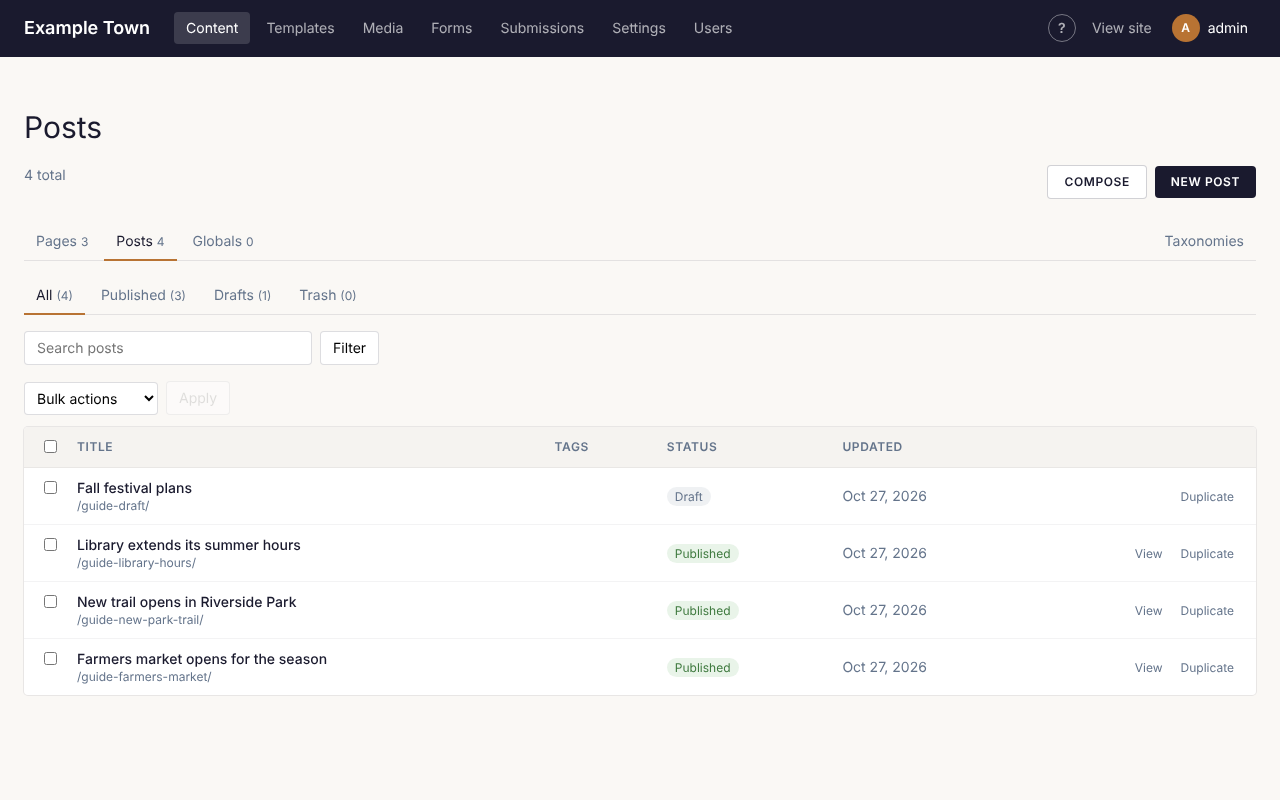
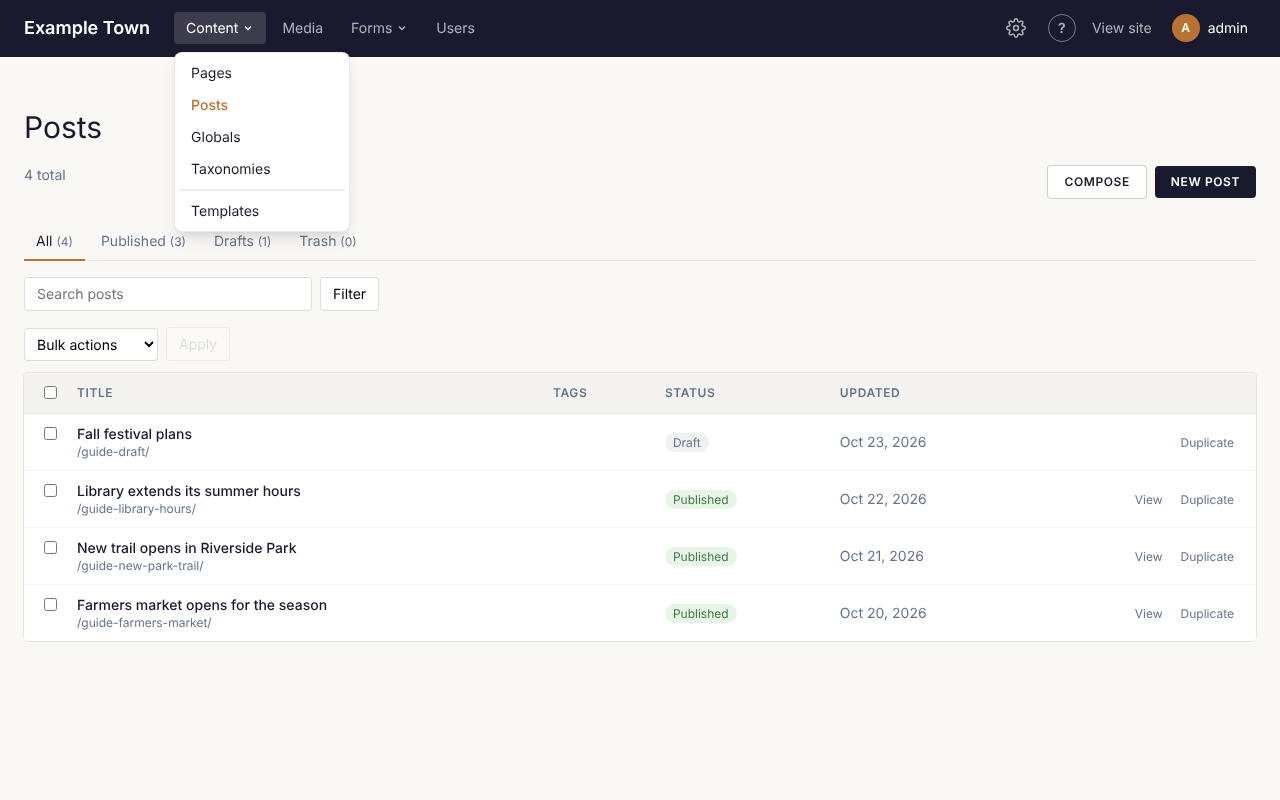
Admin bar: content types, Taxonomies and Templates under a Content dropdown
The content list's type tabs move into the bar's Content menu, with
Taxonomies after them and Templates in a section of its own under a rule.
The list counts only the type shown.

Claude-Session: https://claude.ai/code/session_01BBav2VRnCnaYiKq5puBKN7

diff --git a/src/lib/admin/nav.ts b/src/lib/admin/nav.ts
@@ -1,20 +1,30 @@
-// The admin bar's menu (src/layouts/Admin.astro): a few links and two dropdowns, so features turned on
-// don't make it longer. Settings is the gear beside it, for admins.
+// The admin bar's menu (src/layouts/Admin.astro): a few links and dropdowns, so content types and
+// features turned on don't make it longer. Settings is the gear beside it, for admins.
 
 export interface NavLink {
   href: string;
   label: string;
+  /** Starts a section of its own in a dropdown, under a rule. */
+  section?: boolean;
 }
 export interface NavGroup {
   label: string;
   items: NavLink[];
+  /** Other screens that belong to the group (an entry's editor, Compose). */
+  also?: string[];
 }
 export type NavItem = NavLink | NavGroup;
 
 export const isGroup = (n: NavItem): n is NavGroup => 'items' in n;
 
-/** What the bar offers this person: optional features only while they are on, admin screens to admins. */
-export function adminNav(o: { isAdmin: boolean; ticketsOn: boolean; mailOn: boolean; membersOn: boolean }): NavItem[] {
+/** The content list's address for a type, or Taxonomies (`terms`). */
+export const contentHref = (type: string) => `/admin/?type=${type}`;
+
+/**
+ * What the bar offers this person: Content's types (those shown, `types`), Taxonomies and, in a section
+ * of its own, Templates; optional features only while they are on; admin screens to admins.
+ */
+export function adminNav(o: { isAdmin: boolean; ticketsOn: boolean; mailOn: boolean; membersOn: boolean; types: { type: string; label: string }[] }): NavItem[] {
   const people: NavLink[] = [
     ...(o.isAdmin ? [{ href: '/admin/users/', label: 'Users' }] : []),
     ...(o.isAdmin && o.membersOn ? [{ href: '/admin/members/', label: 'Members' }] : []),
@@ -26,17 +36,21 @@ export function adminNav(o: { isAdmin: boolean; ticketsOn: boolean; mailOn: bool
     { label: 'People', items: people },
   ];
   return [
-    { href: '/admin/', label: 'Content' },
-    { href: '/admin/templates/', label: 'Templates' },
+    { label: 'Content', items: [...o.types.map((t) => ({ href: contentHref(t.type), label: t.label })), { href: contentHref('terms'), label: 'Taxonomies' }, { href: '/admin/templates/', label: 'Templates', section: true }], also: ['/admin/content', '/admin/compose', '/admin/edit'] },
     { href: '/admin/media/', label: 'Media' },
     // A group of one is just its link.
     ...groups.filter((g) => g.items.length).map((g) => (g.items.length === 1 ? g.items[0] : g)),
   ];
 }
 
-/** Whether the screen at `path` is the link's (Content covers the content list and Compose). */
-export function navActive(n: NavItem, path: string): boolean {
-  if (isGroup(n)) return n.items.some((i) => navActive(i, path));
-  if (n.href === '/admin/') return path === '/admin/' || path.startsWith('/admin/content') || path.startsWith('/admin/compose');
-  return path.startsWith(n.href);
+/** Whether the screen at `url` is the link's (a content list by its type; `page` when none is named). */
+export function navActive(n: NavItem, url: URL): boolean {
+  const path = url.pathname;
+  if (isGroup(n)) return n.items.some((i) => navActive(i, url)) || !!n.also?.some((p) => path.startsWith(p));
+  const href = new URL(n.href, url);
+  if (n.href.startsWith('/admin/?')) {
+    const type = (t: string | null) => (t === 'tags' ? 'terms' : t || 'page');
+    return path === '/admin/' && type(url.searchParams.get('type')) === type(href.searchParams.get('type'));
+  }
+  return path.startsWith(href.pathname);
 }

diff --git a/tests/admin-nav.test.ts b/tests/admin-nav.test.ts
@@ -1,23 +1,34 @@
 import { describe, expect, it } from 'vitest';
 import { adminNav, isGroup, navActive } from '../src/lib/admin/nav';
 
-const labels = (o: Parameters<typeof adminNav>[0]) => adminNav(o).map((n) => (isGroup(n) ? `${n.label}: ${n.items.map((i) => i.label).join(', ')}` : n.label));
+const types = [{ type: 'page', label: 'Pages' }, { type: 'post', label: 'Posts' }];
+const labels = (o: Omit<Parameters<typeof adminNav>[0], 'types'>) => adminNav({ ...o, types }).map((n) => (isGroup(n) ? `${n.label}: ${n.items.map((i) => i.label).join(', ')}` : n.label));
+const at = (path: string) => new URL(path, 'http://site.test');
 
 describe('admin nav', () => {
-  it('keeps the bar short with every feature on', () => {
-    expect(labels({ isAdmin: true, ticketsOn: true, mailOn: true, membersOn: true })).toEqual(['Content', 'Templates', 'Media', 'Forms: Forms, Submissions', 'People: Users, Members, Mailing Lists, Tickets']);
+  it('keeps the bar short with every feature on, the content types and Templates under Content', () => {
+    expect(labels({ isAdmin: true, ticketsOn: true, mailOn: true, membersOn: true })).toEqual(['Content: Pages, Posts, Taxonomies, Templates', 'Media', 'Forms: Forms, Submissions', 'People: Users, Members, Mailing Lists, Tickets']);
   });
 
   it('gives editors no admin screens, and a group of one as a link', () => {
-    expect(labels({ isAdmin: false, ticketsOn: false, mailOn: false, membersOn: true })).toEqual(['Content', 'Templates', 'Media', 'Forms: Forms, Submissions']);
-    expect(labels({ isAdmin: false, ticketsOn: true, mailOn: false, membersOn: false })).toEqual(['Content', 'Templates', 'Media', 'Forms: Forms, Submissions', 'Tickets']);
+    expect(labels({ isAdmin: false, ticketsOn: false, mailOn: false, membersOn: true }).slice(1)).toEqual(['Media', 'Forms: Forms, Submissions']);
+    expect(labels({ isAdmin: false, ticketsOn: true, mailOn: false, membersOn: false }).at(-1)).toBe('Tickets');
   });
 
   it('marks the screen shown, and a group holding it', () => {
-    const nav = adminNav({ isAdmin: true, ticketsOn: true, mailOn: false, membersOn: false });
+    const nav = adminNav({ isAdmin: true, ticketsOn: true, mailOn: false, membersOn: false, types });
+    const [content] = nav;
     const people = nav.find((n) => n.label === 'People')!;
-    expect(navActive(people, '/admin/tickets/12/')).toBe(true);
-    expect(navActive(nav[0], '/admin/compose/')).toBe(true);
-    expect(navActive(nav[0], '/admin/templates/')).toBe(false);
+    const item = (label: string) => (isGroup(content) ? content.items.find((i) => i.label === label)! : content);
+    expect(navActive(people, at('/admin/tickets/12/'))).toBe(true);
+    expect(navActive(item('Pages'), at('/admin/'))).toBe(true);
+    expect(navActive(item('Pages'), at('/admin/?type=post'))).toBe(false);
+    expect(navActive(item('Posts'), at('/admin/?type=post&status=draft'))).toBe(true);
+    expect(navActive(item('Taxonomies'), at('/admin/?type=tags'))).toBe(true);
+    expect(navActive(content, at('/admin/edit/4/'))).toBe(true);
+    expect(navActive(content, at('/admin/compose/'))).toBe(true);
+    expect(navActive(content, at('/admin/templates/part/header/'))).toBe(true);
+    expect(navActive(content, at('/admin/media/'))).toBe(false);
+    expect(isGroup(content) && content.items.filter((i) => i.section).map((i) => i.label)).toEqual(['Templates']);
   });
 });

diff --git a/CORE.md b/CORE.md
@@ -709,7 +709,7 @@ take any type option plus `fields`, added to the core's or replacing one by key,
 to replace one whole (the calendar views stay under `/events/`). The core reads these field keys: on events `venue`, `cost`,
 `website` and `schedule`; on venues `address`, `city`, `state`, `zip`, `country`, `phone` and `website`.
 
-Off, nothing is deleted, but the admin hides events, venues and event categories (Content's tabs,
+Off, nothing is deleted, but the admin hides events, venues and event categories (Content's menu,
 Taxonomies, Settings > Types and Search; `showsType`, `showsTaxonomy`) and the site shows none:
 `resolve` answers Not found for the event listing, calendar views, event pages and occurrences and the
 term pages of taxonomies that list events; the feeds, ticket checkout, waitlist and availability
@@ -1116,8 +1116,9 @@ it makes the one-time password token.
 `awaitingPassword` lists accounts with an open invitation, or invited with no password, for the
 screens' "Invited" rows and Resend invitation.
 
-The admin bar (`src/layouts/Admin.astro`, its items from `adminNav` in `src/lib/admin/nav.ts`): Content,
-Templates and Media, a **Forms** dropdown (Forms, Submissions) and a **People** dropdown (Users and Members
+The admin bar (`src/layouts/Admin.astro`, its items from `adminNav` in `src/lib/admin/nav.ts`): a **Content**
+dropdown (each type shown, its list at `/admin/?type=<type>`, then Taxonomies, then Templates in a section
+of its own, `section`; the content list has no tabs of its own for the types), Media, a **Forms** dropdown (Forms, Submissions) and a **People** dropdown (Users and Members
 for admins, Mailing Lists and Tickets, each while its feature is on; a group of one shows as its link),
 then a gear for Settings (admins), **?**, View site and the account menu. Below 1024px it all sits behind
 one menu button, the groups as headings. The dropdowns are `details[data-menu]`: one open at a time, closed

diff --git a/docs-site/src/content/docs/guide/pages-and-posts.md b/docs-site/src/content/docs/guide/pages-and-posts.md
@@ -5,15 +5,15 @@ sidebar:
   order: 1
 ---
 
-Everything on your site lives under **Content** in the top bar. Across the top of that screen is a
-tab for each kind of content your site has, such as **Pages**, **Posts** or **Events**. The number
-beside each tab is how many there are.
+Everything on your site lives under **Content** in the top bar. Click it to see each kind of content
+your site has, such as **Pages**, **Posts** or **Events**, then pick one to see its list. The number
+under the heading is how many there are.
 
 ![The Content screen, showing posts](../../../assets/guide/content-list.png)
 
 ## Adding a new page or post
 
-1. Click **Content**, then the tab for the kind of thing you want to add (for example **Pages**).
+1. Click **Content**, then the kind of thing you want to add (for example **Pages**).
 2. Click the **New** button in the top right (it says **New Page**, **New Post** and so on).
 3. The page editor opens with an empty page. Type a title in the **Title** box on the right.
 4. Add what you want on the page (see [Using the page editor](/cfpuck-cms/guide/page-editor/)).
@@ -69,8 +69,7 @@ Categories and tags group related content, so visitors can find everything on on
 - Add tags to a page in the editor's right-hand panel: type a tag and press Enter. New tags are
   made for you.
 - Pick categories in the same panel.
-- To rename, rearrange or describe them, go to **Content** and click the **Taxonomies** tab on the
-  right. Drag a category by its handle to move it, or onto another to put it underneath.
+- To rename, rearrange or describe them, click **Content**, then **Taxonomies**. Drag a category by its handle to move it, or onto another to put it underneath.
 
 ## Page addresses
 

diff --git a/docs-site/src/content/docs/guide/index.md b/docs-site/src/content/docs/guide/index.md
@@ -35,14 +35,13 @@ The dark bar across the top of every admin screen takes you to each part of the 
 
 | Menu item | What it is for |
 | --- | --- |
-| **Content** | Your pages, posts and anything else the site lists, such as events. |
-| **Templates** | The shared layouts every page uses, such as the header and footer. |
+| **Content** ▾ | Your pages, posts and anything else the site lists, such as events, each kind on its own list; **Taxonomies** (categories and tags); and, below a line, **Templates**, the shared layouts every page uses, such as the header and footer. |
 | **Media** | Your photos, images, videos and documents. |
 | **Forms** ▾ | **Forms** (contact forms, sign-up forms and the like) and **Submissions** (what people sent through them). |
 | **People** ▾ | **Users** (who can sign in to look after the site; admins only), **Members**, **Mailing Lists** and **Tickets** (each only when your site uses it). |
 | ⚙ (the gear) | **Settings**: site-wide settings, such as the menu. Admins only. |
 
-Click **Forms** or **People** to open its list, then the screen you want. On a phone or a narrow
+Click **Content**, **Forms** or **People** to open its list, then the screen you want. On a phone or a narrow
 window, the whole menu is behind the ☰ button at the top right.
 
 **View site** (in the ☰ menu on a phone) opens your public website in a new tab, so you can see your changes as visitors will.

diff --git a/docs-site/src/content/docs/site/configuration.md b/docs-site/src/content/docs/site/configuration.md
@@ -83,7 +83,7 @@ with `events` (fields added, replaced or left out, labels, URLs), see
 | `archive` | The type's listing page (`/directory/`) |
 | `record` | Data only, with no page; edited with a plain form (venues) |
 | `pageless` | No public page (globals) |
-| `hidden` | Left out of the admin's type tabs |
+| `hidden` | Left out of the admin's Content menu |
 | `category` | The type's main taxonomy: card labels, and the first offered to filter by |
 | `taxonomies` | Its other taxonomies. Each gets a term picker in an entry's settings; collections, filters and bulk actions offer them. Tags apply to every type |
 | `fields` | The type's own fields, shown in the editor's Details |

diff --git a/docs-site/src/content/docs/guide/page-editor.md b/docs-site/src/content/docs/guide/page-editor.md
@@ -121,7 +121,7 @@ Events and other kinds of content have their own extra settings here too, such a
 ## The header, footer and templates
 
 The parts that appear on every page, such as the header, menu and footer, aren't part of each page.
-They are in **Templates**. When you hover over them in the editor, admins see a link to edit them.
+They are in **Content**, **Templates**. When you hover over them in the editor, admins see a link to edit them.
 
 :::caution
 A change to a template or the header changes every page that uses it, straight away. Take care, and

diff --git a/docs-site/src/content/docs/guide/events-and-tickets.md b/docs-site/src/content/docs/guide/events-and-tickets.md
@@ -5,8 +5,8 @@ sidebar:
   order: 8
 ---
 
-If your site lists events, they appear under **Content**, on the **Events** tab, and on your site's
-calendar at `/events/`. (If you don't see an **Events** tab, events are turned off; an admin can turn
+If your site lists events, they appear under **Content**, **Events**, and on your site's
+calendar at `/events/`. (If you don't see **Events** under **Content**, events are turned off; an admin can turn
 them on under **Settings**, **Events**.)
 
 ## Adding an event

diff --git a/docs-site/src/content/docs/guide/common-questions.md b/docs-site/src/content/docs/guide/common-questions.md
@@ -13,7 +13,7 @@ sidebar:
 
 ### I can't find a page I made.
 
-Look in **Content**, on the right tab (Pages, Posts...), and try the **Drafts** and **Trash** tabs.
+Look in **Content**, under the right kind (Pages, Posts...), and try the **Drafts** and **Trash** tabs.
 Use the search box with a word from its title.
 
 ### I deleted something by mistake.
